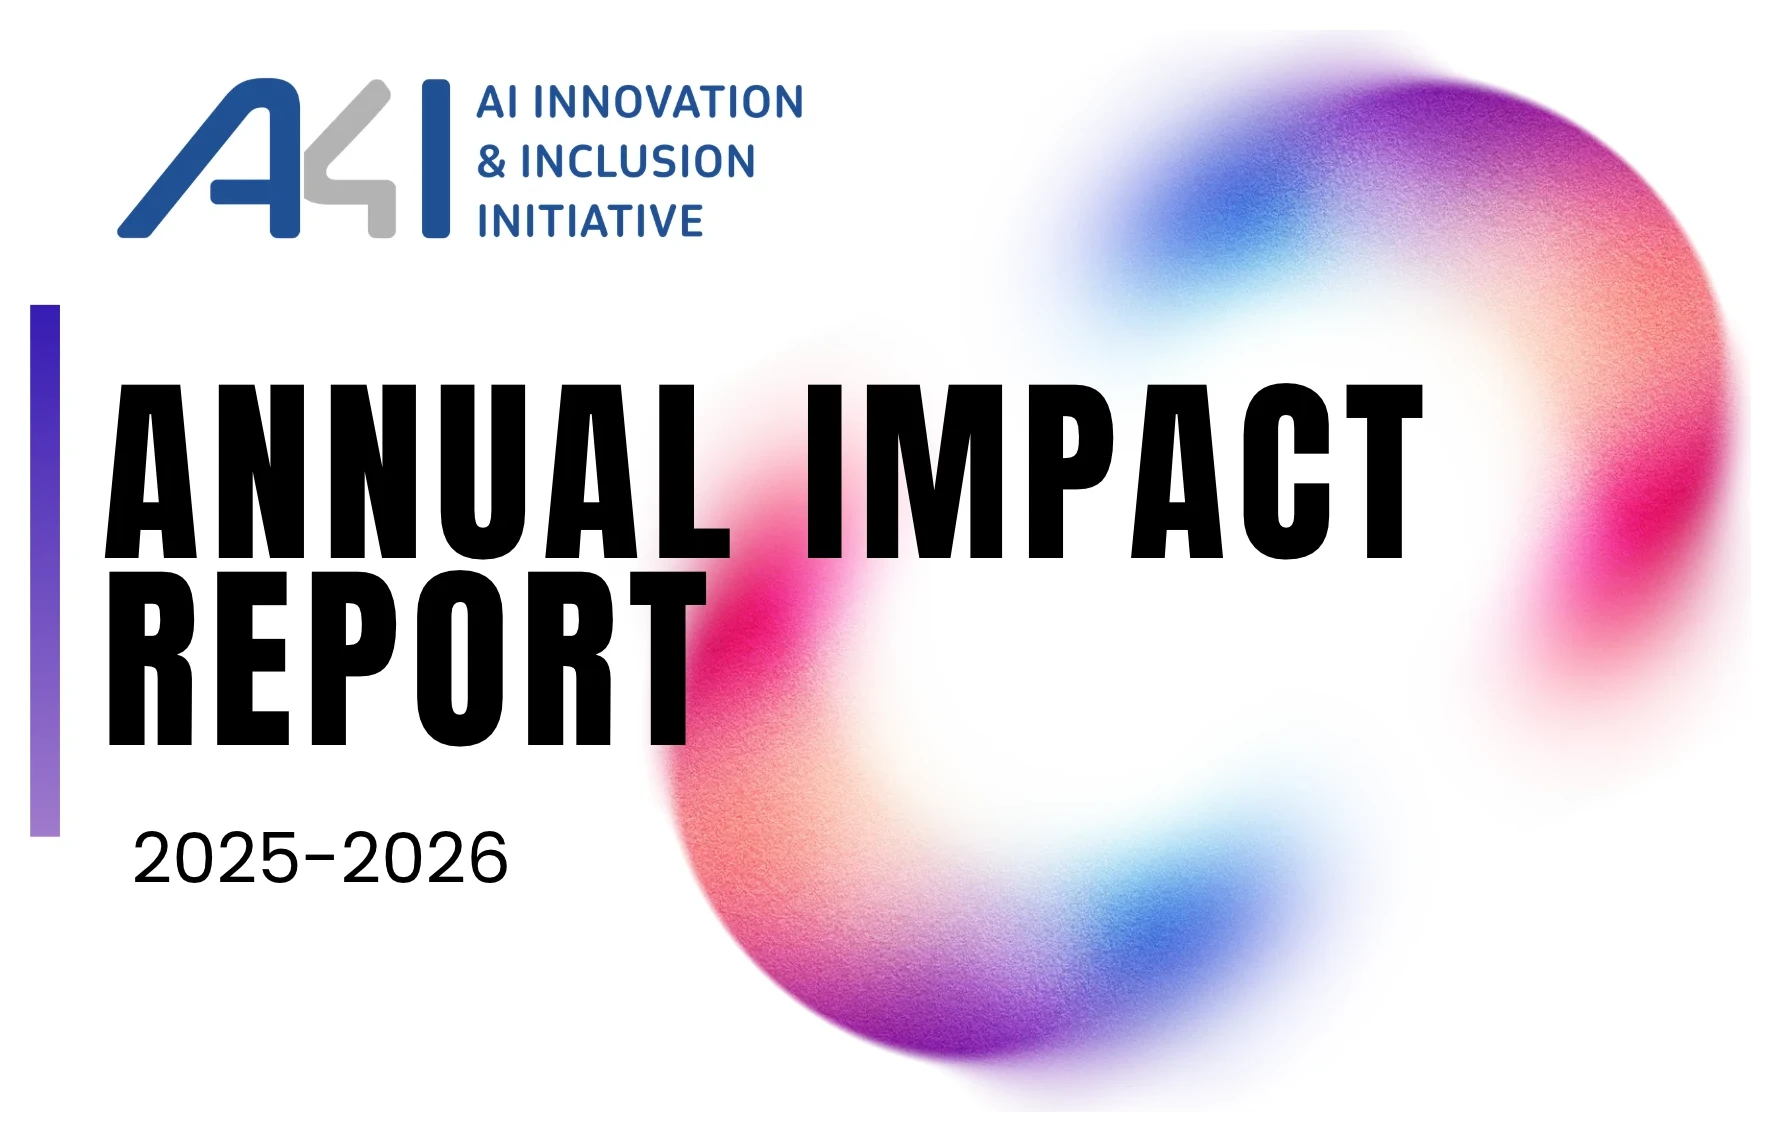
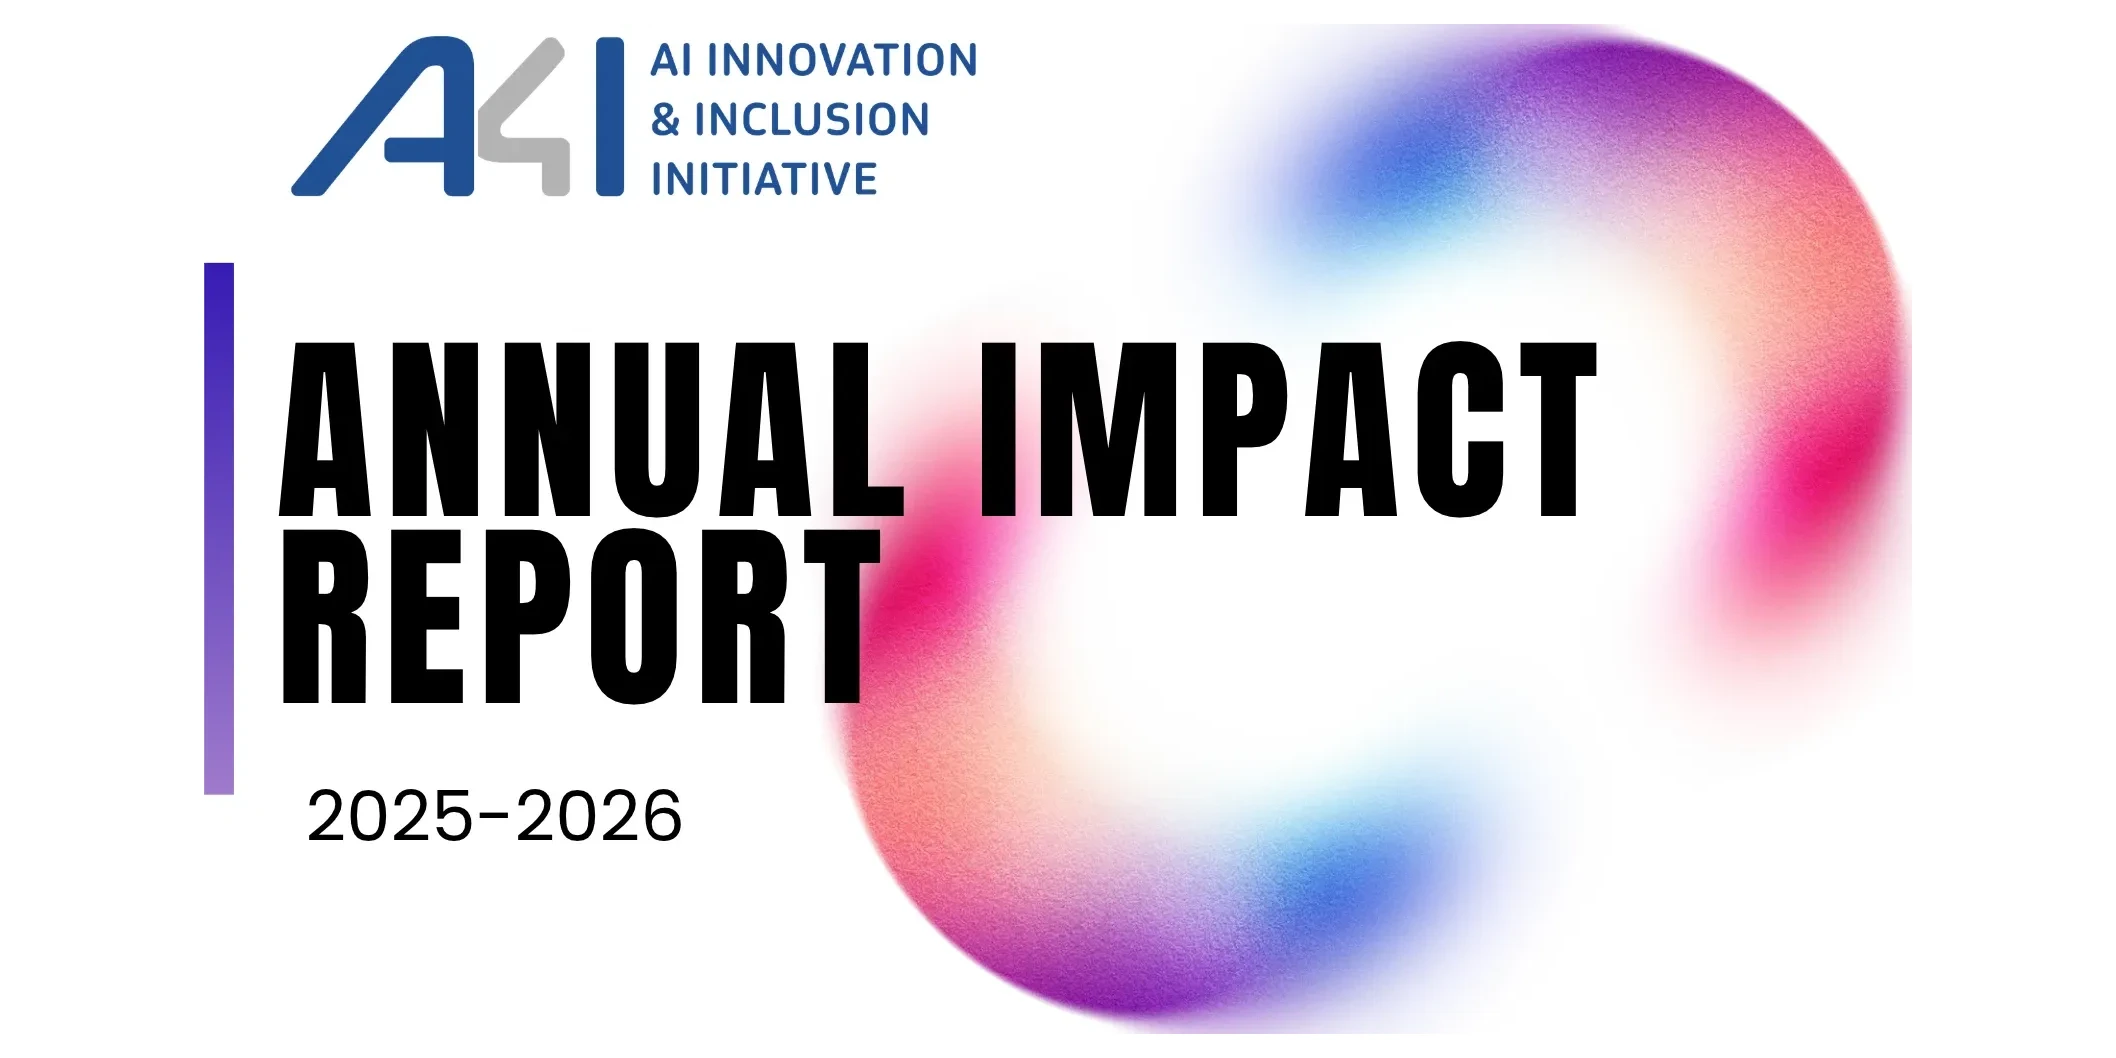
Tighten Impact Report cover so artwork fills the card
Trim the soft glow margin and pad to 2:1 to match the featured card.

diff --git a/blogs/a4i-year-1-impact-report/index.html b/blogs/a4i-year-1-impact-report/index.html
@@ -816,7 +816,7 @@ document.addEventListener("DOMContentLoaded", function () {
 
 <div class="wp-block-group e-details has-background is-layout-flow wp-block-group-is-layout-flow" style="background-color:#ededed;margin-top:0;margin-bottom:0">
 <div class="wp-block-columns mob-f-rev is-layout-flex wp-container-core-columns-is-layout-87724155 wp-block-columns-is-layout-flex">
-<div class="wp-block-column is-layout-flow wp-block-column-is-layout-flow"><figure style="aspect-ratio:auto" class="wp-block-post-featured-image"><img width="1781" height="1142" src="../../wp-content/uploads/2026/11/a4i-year-1-impact-report-cover.webp" class="attachment-full size-full wp-post-image" alt="A4I Year 1 Impact Report" style="width:100%;height:100%;object-fit:contain;background:#fff;" decoding="async"></figure></div>
+<div class="wp-block-column is-layout-flow wp-block-column-is-layout-flow"><figure style="aspect-ratio:auto" class="wp-block-post-featured-image"><img width="2116" height="1058" src="../../wp-content/uploads/2026/11/a4i-year-1-impact-report-cover.webp" class="attachment-full size-full wp-post-image" alt="A4I Year 1 Impact Report" style="width:100%;height:100%;object-fit:contain;background:#fff;" decoding="async"></figure></div>
 
 
 
@@ -917,7 +917,7 @@ document.addEventListener("DOMContentLoaded", function () {
 <div class="wp-block-group resource-container wow wd wd_0.5s fadeInUp is-layout-flow wp-container-core-group-is-layout-344c4406 wp-block-group-is-layout-flow" style="padding-top:3rem">
 <div class="wp-block-query alignwide is-layout-flow wp-block-query-is-layout-flow">
 <div class="wp-block-group is-layout-flow wp-container-core-group-is-layout-4e301e6a wp-block-group-is-layout-flow" style="padding-top:0;padding-bottom:0"><ul class="columns-3 wp-block-post-template is-layout-grid wp-container-core-post-template-is-layout-e9442ab9 wp-block-post-template-is-layout-grid"><li class="wp-block-post post-2240 blogs type-blogs status-publish has-post-thumbnail hentry tag-on-site">
-<figure style="aspect-ratio:auto" class="wp-block-post-featured-image"><a href="./" target="_self"  ><img width="1781" height="1142" src="../../wp-content/uploads/2026/11/a4i-year-1-impact-report-cover.webp" class="attachment-full size-full wp-post-image" alt="A4I Year 1 Impact Report" style="width:100%;height:100%;object-fit:contain;background:#fff;" decoding="async"></a></figure>
+<figure style="aspect-ratio:auto" class="wp-block-post-featured-image"><a href="./" target="_self"  ><img width="2116" height="1058" src="../../wp-content/uploads/2026/11/a4i-year-1-impact-report-cover.webp" class="attachment-full size-full wp-post-image" alt="A4I Year 1 Impact Report" style="width:100%;height:100%;object-fit:contain;background:#fff;" decoding="async"></a></figure>
 
 
 <div class="wp-block-group inner-data has-base-background-color has-background is-layout-flow wp-container-core-group-is-layout-4fa844f5 wp-block-group-is-layout-flow" style="margin-top:0;margin-bottom:0;padding-top:15px;padding-right:15px;padding-bottom:15px;padding-left:15px"><div style="font-size:clamp(0.875rem, 0.875rem + ((1vw - 0.2rem) * 0.196), 1rem);font-style:normal;font-weight:500;text-transform:uppercase" class="taxonomy-post_tag has-link-color wp-elements-05d67ddb6cc49d9f38a5ad7fbdbef5be wp-block-post-terms has-text-color has-blue-color"><a href="../../tag/on-site/" rel="tag">ON-SITE</a></div>

diff --git a/resources/blogs/index.html b/resources/blogs/index.html
@@ -874,7 +874,7 @@ document.addEventListener("DOMContentLoaded", function () {
 <div id="blog-results" class="wp-block-group resource-container wow wd wd_0.5s fadeInUp is-layout-flow wp-container-core-group-is-layout-adf7618f wp-block-group-is-layout-flow" style="padding-top:0rem">
 <div class="wp-block-query alignwide is-layout-flow wp-block-query-is-layout-flow">
 <div class="wp-block-group item is-layout-flow wp-container-core-group-is-layout-4e301e6a wp-block-group-is-layout-flow" style="padding-top:0;padding-bottom:0"><ul class="columns-3 wp-block-post-template is-layout-grid wp-container-core-post-template-is-layout-e9442ab9 wp-block-post-template-is-layout-grid"><li class="wp-block-post post-9001 blogs type-blogs status-publish has-post-thumbnail hentry">
-<figure style="aspect-ratio:auto" class="wp-block-post-featured-image"><a href="../../blogs/a4i-year-1-impact-report/" target="_self"  ><img loading="lazy" decoding="async" width="1781" height="1142" src="../../wp-content/uploads/2026/11/a4i-year-1-impact-report-cover.webp" class="attachment-full size-full wp-post-image" alt="A4I Year 1 Impact Report" style="border-top-left-radius:10px;border-top-right-radius:10px;border-bottom-left-radius:0px;border-bottom-right-radius:0px;width:100%;height:100%;object-fit:contain;background:#fff;"></a></figure>
+<figure style="aspect-ratio:auto" class="wp-block-post-featured-image"><a href="../../blogs/a4i-year-1-impact-report/" target="_self"  ><img loading="lazy" decoding="async" width="2116" height="1058" src="../../wp-content/uploads/2026/11/a4i-year-1-impact-report-cover.webp" class="attachment-full size-full wp-post-image" alt="A4I Year 1 Impact Report" style="border-top-left-radius:10px;border-top-right-radius:10px;border-bottom-left-radius:0px;border-bottom-right-radius:0px;width:100%;height:100%;object-fit:contain;background:#fff;"></a></figure>
 
 
 <div class="wp-block-group inner-data has-background is-layout-flow wp-container-core-group-is-layout-4fa844f5 wp-block-group-is-layout-flow" style="border-top-left-radius:0px;border-top-right-radius:0px;border-bottom-left-radius:10px;border-bottom-right-radius:10px;background-color:#ededed;margin-top:0;margin-bottom:0;padding-top:15px;padding-right:15px;padding-bottom:15px;padding-left:15px"><div style="font-size:clamp(0.875rem, 0.875rem + ((1vw - 0.2rem) * 0.196), 1rem);font-style:normal;font-weight:500;text-transform:uppercase" class="taxonomy-post_tag has-link-color wp-elements-05d67ddb6cc49d9f38a5ad7fbdbef5be wp-block-post-terms has-text-color has-blue-color">REPORT</div>
